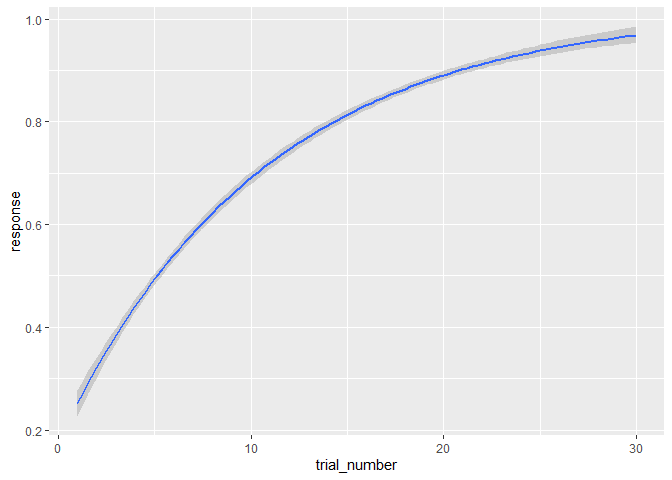
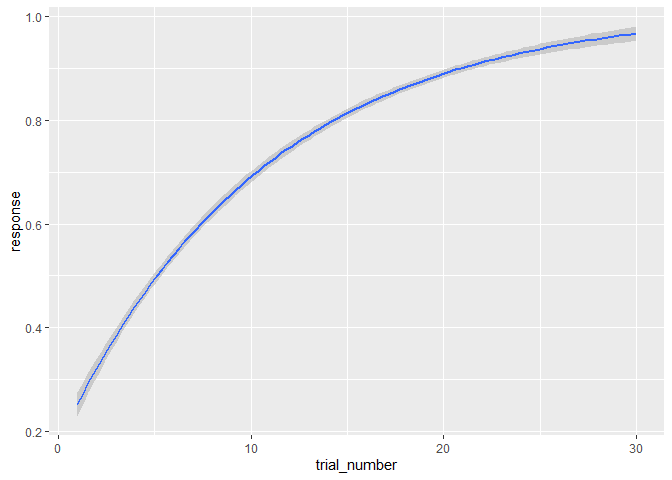
update README

diff --git a/README.md b/README.md
@@ -29,10 +29,10 @@ A basic maximum-likelihood model nonlinearly relating time to an outcome variabl
 library(TEfits)
 
 # generate artificial data:
-dat <- data.frame(response=log(2:31)/log(32),trial_number=1:30)
+dat_simple  <- data.frame(response=log(2:31)/log(32),trial_number=1:30)
 
 # fit a `TEfit` model
-mod_simple <- TEfit(dat[,c('response','trial_number')])
+mod_simple <- TEfit(dat_simple[,c('response','trial_number')])
 
 plot(mod_simple,plot_title='Time-evolving fit of artificial data')
 ```
@@ -68,85 +68,22 @@ summary(mod_simple)
 
 Alternatively, a similar model can be fit using the Bayesian package `brms`. This takes a bit longer, but provides more information about the model.
 
-`mod_TEbrm <- TEbrm(response ~ trial_number, dat)`
+`mod_TEbrm <- TEbrm(response ~ trial_number, dat_simple)`
 
-    ## 
-    ## SAMPLING FOR MODEL '24fb7a14b096f1389976e4d28e0094dc' NOW (CHAIN 1).
-    ## Chain 1: 
-    ## Chain 1: Gradient evaluation took 0 seconds
-    ## Chain 1: 1000 transitions using 10 leapfrog steps per transition would take 0 seconds.
-    ## Chain 1: Adjust your expectations accordingly!
-    ## Chain 1: 
-    ## Chain 1: 
-    ## Chain 1: Iteration:   1 / 1000 [  0%]  (Warmup)
-    ## Chain 1: Iteration: 100 / 1000 [ 10%]  (Warmup)
-    ## Chain 1: Iteration: 200 / 1000 [ 20%]  (Warmup)
-    ## Chain 1: Iteration: 300 / 1000 [ 30%]  (Warmup)
-    ## Chain 1: Iteration: 400 / 1000 [ 40%]  (Warmup)
-    ## Chain 1: Iteration: 500 / 1000 [ 50%]  (Warmup)
-    ## Chain 1: Iteration: 501 / 1000 [ 50%]  (Sampling)
-    ## Chain 1: Iteration: 600 / 1000 [ 60%]  (Sampling)
-    ## Chain 1: Iteration: 700 / 1000 [ 70%]  (Sampling)
-    ## Chain 1: Iteration: 800 / 1000 [ 80%]  (Sampling)
-    ## Chain 1: Iteration: 900 / 1000 [ 90%]  (Sampling)
-    ## Chain 1: Iteration: 1000 / 1000 [100%]  (Sampling)
-    ## Chain 1: 
-    ## Chain 1:  Elapsed Time: 0.256 seconds (Warm-up)
-    ## Chain 1:                0.212 seconds (Sampling)
-    ## Chain 1:                0.468 seconds (Total)
-    ## Chain 1: 
-    ## 
-    ## SAMPLING FOR MODEL '24fb7a14b096f1389976e4d28e0094dc' NOW (CHAIN 2).
-    ## Chain 2: 
-    ## Chain 2: Gradient evaluation took 0 seconds
-    ## Chain 2: 1000 transitions using 10 leapfrog steps per transition would take 0 seconds.
-    ## Chain 2: Adjust your expectations accordingly!
-    ## Chain 2: 
-    ## Chain 2: 
-    ## Chain 2: Iteration:   1 / 1000 [  0%]  (Warmup)
-    ## Chain 2: Iteration: 100 / 1000 [ 10%]  (Warmup)
-    ## Chain 2: Iteration: 200 / 1000 [ 20%]  (Warmup)
-    ## Chain 2: Iteration: 300 / 1000 [ 30%]  (Warmup)
-    ## Chain 2: Iteration: 400 / 1000 [ 40%]  (Warmup)
-    ## Chain 2: Iteration: 500 / 1000 [ 50%]  (Warmup)
-    ## Chain 2: Iteration: 501 / 1000 [ 50%]  (Sampling)
-    ## Chain 2: Iteration: 600 / 1000 [ 60%]  (Sampling)
-    ## Chain 2: Iteration: 700 / 1000 [ 70%]  (Sampling)
-    ## Chain 2: Iteration: 800 / 1000 [ 80%]  (Sampling)
-    ## Chain 2: Iteration: 900 / 1000 [ 90%]  (Sampling)
-    ## Chain 2: Iteration: 1000 / 1000 [100%]  (Sampling)
-    ## Chain 2: 
-    ## Chain 2:  Elapsed Time: 0.251 seconds (Warm-up)
-    ## Chain 2:                0.197 seconds (Sampling)
-    ## Chain 2:                0.448 seconds (Total)
-    ## Chain 2: 
-    ## 
-    ## SAMPLING FOR MODEL '24fb7a14b096f1389976e4d28e0094dc' NOW (CHAIN 3).
-    ## Chain 3: 
-    ## Chain 3: Gradient evaluation took 0 seconds
-    ## Chain 3: 1000 transitions using 10 leapfrog steps per transition would take 0 seconds.
-    ## Chain 3: Adjust your expectations accordingly!
-    ## Chain 3: 
-    ## Chain 3: 
-    ## Chain 3: Iteration:   1 / 1000 [  0%]  (Warmup)
-    ## Chain 3: Iteration: 100 / 1000 [ 10%]  (Warmup)
-    ## Chain 3: Iteration: 200 / 1000 [ 20%]  (Warmup)
-    ## Chain 3: Iteration: 300 / 1000 [ 30%]  (Warmup)
-    ## Chain 3: Iteration: 400 / 1000 [ 40%]  (Warmup)
-    ## Chain 3: Iteration: 500 / 1000 [ 50%]  (Warmup)
-    ## Chain 3: Iteration: 501 / 1000 [ 50%]  (Sampling)
-    ## Chain 3: Iteration: 600 / 1000 [ 60%]  (Sampling)
-    ## Chain 3: Iteration: 700 / 1000 [ 70%]  (Sampling)
-    ## Chain 3: Iteration: 800 / 1000 [ 80%]  (Sampling)
-    ## Chain 3: Iteration: 900 / 1000 [ 90%]  (Sampling)
-    ## Chain 3: Iteration: 1000 / 1000 [100%]  (Sampling)
-    ## Chain 3: 
-    ## Chain 3:  Elapsed Time: 0.255 seconds (Warm-up)
-    ## Chain 3:                0.213 seconds (Sampling)
-    ## Chain 3:                0.468 seconds (Total)
-    ## Chain 3:
+``` r
+# fit a `TEbrm` model
+mod_TEbrm <- TEbrm(response ~ trial_number, dat_simple)
+```
+
+``` r
+conditional_effects(mod_TEbrm)
+```
 
 ![](README_files/figure-markdown_github/model_simple_TEbrm_output-1.png)
+
+``` r
+summary(mod_TEbrm)
+```
 
     ##  Family: gaussian 
     ##   Links: mu = identity; sigma = identity 
@@ -160,13 +97,13 @@ Alternatively, a similar model can be fit using the Bayesian package `brms`. Thi
     ## 
     ## Population-Level Effects: 
     ##                  Estimate Est.Error l-95% CI u-95% CI Rhat Bulk_ESS Tail_ESS
-    ## pStart_Intercept     0.25      0.01     0.23     0.28 1.00      562      565
-    ## pRate_Intercept      2.88      0.09     2.72     3.06 1.00      397      345
-    ## pAsym_Intercept      1.02      0.02     0.99     1.05 1.00      448      369
+    ## pStart_Intercept     0.25      0.01     0.23     0.28 1.01      679      784
+    ## pRate_Intercept      2.87      0.08     2.72     3.01 1.01      517      697
+    ## pAsym_Intercept      1.02      0.01     0.99     1.04 1.01      593      776
     ## 
     ## Family Specific Parameters: 
     ##       Estimate Est.Error l-95% CI u-95% CI Rhat Bulk_ESS Tail_ESS
-    ## sigma     0.02      0.00     0.01     0.02 1.01      587      708
+    ## sigma     0.02      0.00     0.01     0.02 1.00      834      691
     ## 
     ## Samples were drawn using sampling(NUTS). For each parameter, Bulk_ESS
     ## and Tail_ESS are effective sample size measures, and Rhat is the potential
@@ -179,7 +116,7 @@ An example of a maximum-likelihood fit using a Bernoulli response distribution, 
 
 ``` r
 # fit a `TEfit` model
-mod_boot <- TEfit(dat[,c('response','trial_number')], 
+mod_boot <- TEfit(dat_simple[,c('response','trial_number')], 
              errFun='bernoulli',
              bootPars=tef_bootList(resamples = 40))
 plot(mod_boot,plot_title='Time-evolving fit of artificial data with 95% CI from 40 bootstrapped fits')
@@ -198,19 +135,19 @@ summary(mod_boot)
     ## 
     ## >> Fit Values:
     ##        Estimate  Q025  Q975 pseudoSE
-    ## pAsym     0.999 0.987 1.000    0.003
-    ## pRate     2.716 2.538 2.802    0.067
-    ## pStart    0.237 0.179 0.291    0.029
+    ## pAsym     0.999 0.979 1.000    0.005
+    ## pRate     2.705 2.597 2.852    0.065
+    ## pStart    0.208 0.179 0.290    0.028
     ## 
     ## >> Goodness-of-fit:
     ##                err  nullErr nPars nObs      BIC  nullBIC    deltaBIC
-    ## bernoulli 13.42573 16.83409     3   30 37.05505 37.06937 -0.01432375
+    ## bernoulli 13.42733 16.83409     3   30 37.05826 37.06937 -0.01110886
     ## 
     ## >> Test of change in nonindependence:
     ##                          rawSpearman modelConditionalSpearman
-    ## response ~ trial_number:          -1                -0.127475
+    ## response ~ trial_number:          -1                 0.192881
     ##                          proportionalSpearmanChange pValSpearmanChange
-    ## response ~ trial_number:                   0.127475                  0
+    ## response ~ trial_number:                   0.192881                  0
     ## 
     ## >> Percent of resamples predicting an increase in values: 100 
     ## 
@@ -218,10 +155,10 @@ summary(mod_boot)
     ## 
     ## >> Bootstrapped parameter correlations:
     ##         pAsym pStart pRate    err
-    ## pAsym   1.000 -0.092 0.277 -0.028
-    ## pStart -0.092  1.000 0.658  0.308
-    ## pRate   0.277  0.658 1.000  0.153
-    ## err    -0.028  0.308 0.153  1.000
+    ## pAsym   1.000 -0.193 0.225 -0.172
+    ## pStart -0.193  1.000 0.642  0.468
+    ## pRate   0.225  0.642 1.000  0.336
+    ## err    -0.172  0.468 0.336  1.000
 
 Fitting multiple models
 -----------------------
@@ -230,7 +167,7 @@ An example of fitting a given model to subsets of data (e.g., individual partici
 
 ``` r
 # generate artificial data:
-dat <- data.frame(response=rep(dat$response,4)*seq(0,.2,length=120),trial_number=rep(1:30,4),group=rep(letters[1:4],each=30))
+dat <- data.frame(response=rep(dat_simple$response,4)*seq(0,.2,length=120),trial_number=rep(1:30,4),group=rep(letters[1:4],each=30))
 
 # fit a `TEfitAll` model
 mod_4group <- TEfitAll(dat[,c('response','trial_number')], 
@@ -260,8 +197,8 @@ summary(mod_4group)
     ## 
     ## >> Overall effects:
     ##             pAsym     pStart      pRate
-    ## mean   0.14922721 0.01639028 3.83366521
-    ## stdErr 0.03933404 0.01060450 0.02431579
+    ## mean   0.14922721 0.01639030 3.83366541
+    ## stdErr 0.03933404 0.01060451 0.02431559
     ## 
     ##                 err    nullErr nPars nObs      Fval         Pval   Rsquared
     ## mean   3.005041e-04 0.03071614     3   30 1692.5939 1.110223e-16 0.97598962
@@ -287,126 +224,18 @@ An analogous model, this time fitting "participant-level" models as random effec
 
 `mod_4group_TEbrm <- TEbrm(response ~` `tef_change_expo3('trial_number',parForm = ~ (1|group))` `,dataIn = dat)`
 
-    ## 
-    ## SAMPLING FOR MODEL 'ec7a53ce60e88c9f52bc73902e26264a' NOW (CHAIN 1).
-    ## Chain 1: 
-    ## Chain 1: Gradient evaluation took 0 seconds
-    ## Chain 1: 1000 transitions using 10 leapfrog steps per transition would take 0 seconds.
-    ## Chain 1: Adjust your expectations accordingly!
-    ## Chain 1: 
-    ## Chain 1: 
-    ## Chain 1: Iteration:   1 / 1000 [  0%]  (Warmup)
-    ## Chain 1: Iteration: 100 / 1000 [ 10%]  (Warmup)
-    ## Chain 1: Iteration: 200 / 1000 [ 20%]  (Warmup)
-    ## Chain 1: Iteration: 300 / 1000 [ 30%]  (Warmup)
-    ## Chain 1: Iteration: 400 / 1000 [ 40%]  (Warmup)
-    ## Chain 1: Iteration: 500 / 1000 [ 50%]  (Warmup)
-    ## Chain 1: Iteration: 501 / 1000 [ 50%]  (Sampling)
-    ## Chain 1: Iteration: 600 / 1000 [ 60%]  (Sampling)
-    ## Chain 1: Iteration: 700 / 1000 [ 70%]  (Sampling)
-    ## Chain 1: Iteration: 800 / 1000 [ 80%]  (Sampling)
-    ## Chain 1: Iteration: 900 / 1000 [ 90%]  (Sampling)
-    ## Chain 1: Iteration: 1000 / 1000 [100%]  (Sampling)
-    ## Chain 1: 
-    ## Chain 1:  Elapsed Time: 34.169 seconds (Warm-up)
-    ## Chain 1:                41.87 seconds (Sampling)
-    ## Chain 1:                76.039 seconds (Total)
-    ## Chain 1: 
-    ## 
-    ## SAMPLING FOR MODEL 'ec7a53ce60e88c9f52bc73902e26264a' NOW (CHAIN 2).
-    ## Chain 2: 
-    ## Chain 2: Gradient evaluation took 0.001 seconds
-    ## Chain 2: 1000 transitions using 10 leapfrog steps per transition would take 10 seconds.
-    ## Chain 2: Adjust your expectations accordingly!
-    ## Chain 2: 
-    ## Chain 2: 
-    ## Chain 2: Iteration:   1 / 1000 [  0%]  (Warmup)
-    ## Chain 2: Iteration: 100 / 1000 [ 10%]  (Warmup)
-    ## Chain 2: Iteration: 200 / 1000 [ 20%]  (Warmup)
-    ## Chain 2: Iteration: 300 / 1000 [ 30%]  (Warmup)
-    ## Chain 2: Iteration: 400 / 1000 [ 40%]  (Warmup)
-    ## Chain 2: Iteration: 500 / 1000 [ 50%]  (Warmup)
-    ## Chain 2: Iteration: 501 / 1000 [ 50%]  (Sampling)
-    ## Chain 2: Iteration: 600 / 1000 [ 60%]  (Sampling)
-    ## Chain 2: Iteration: 700 / 1000 [ 70%]  (Sampling)
-    ## Chain 2: Iteration: 800 / 1000 [ 80%]  (Sampling)
-    ## Chain 2: Iteration: 900 / 1000 [ 90%]  (Sampling)
-    ## Chain 2: Iteration: 1000 / 1000 [100%]  (Sampling)
-    ## Chain 2: 
-    ## Chain 2:  Elapsed Time: 34.695 seconds (Warm-up)
-    ## Chain 2:                42.055 seconds (Sampling)
-    ## Chain 2:                76.75 seconds (Total)
-    ## Chain 2: 
-    ## 
-    ## SAMPLING FOR MODEL 'ec7a53ce60e88c9f52bc73902e26264a' NOW (CHAIN 3).
-    ## Chain 3: 
-    ## Chain 3: Gradient evaluation took 0.001 seconds
-    ## Chain 3: 1000 transitions using 10 leapfrog steps per transition would take 10 seconds.
-    ## Chain 3: Adjust your expectations accordingly!
-    ## Chain 3: 
-    ## Chain 3: 
-    ## Chain 3: Iteration:   1 / 1000 [  0%]  (Warmup)
-    ## Chain 3: Iteration: 100 / 1000 [ 10%]  (Warmup)
-    ## Chain 3: Iteration: 200 / 1000 [ 20%]  (Warmup)
-    ## Chain 3: Iteration: 300 / 1000 [ 30%]  (Warmup)
-    ## Chain 3: Iteration: 400 / 1000 [ 40%]  (Warmup)
-    ## Chain 3: Iteration: 500 / 1000 [ 50%]  (Warmup)
-    ## Chain 3: Iteration: 501 / 1000 [ 50%]  (Sampling)
-    ## Chain 3: Iteration: 600 / 1000 [ 60%]  (Sampling)
-    ## Chain 3: Iteration: 700 / 1000 [ 70%]  (Sampling)
-    ## Chain 3: Iteration: 800 / 1000 [ 80%]  (Sampling)
-    ## Chain 3: Iteration: 900 / 1000 [ 90%]  (Sampling)
-    ## Chain 3: Iteration: 1000 / 1000 [100%]  (Sampling)
-    ## Chain 3: 
-    ## Chain 3:  Elapsed Time: 33.687 seconds (Warm-up)
-    ## Chain 3:                40.23 seconds (Sampling)
-    ## Chain 3:                73.917 seconds (Total)
-    ## Chain 3:
-
 ``` r
-conditional_effects(mod_4group_TEbrm)
+# mod_4group_TEbrm <- TEbrm(response ~ 
+#                             tef_change_expo3('trial_number',parForm = ~ (1|group))
+#                           ,dataIn = dat
+# )
 ```
 
-![](README_files/figure-markdown_github/model_groups_TEbrm_output-1.png)
-
 ``` r
-summary(mod_4group_TEbrm)
+# conditional_effects(mod_4group_TEbrm)
+# 
+# summary(mod_4group_TEbrm)
 ```
-
-    ##  Family: gaussian 
-    ##   Links: mu = identity; sigma = identity 
-    ## Formula: response ~ pAsym + ((pStart) - (pAsym)) * 2^((1 - trial_number)/(2^(pRate))) 
-    ##          pStart ~ (1 | group)
-    ##          pRate ~ (1 | group)
-    ##          pAsym ~ (1 | group)
-    ##    Data: attr(rhs_form, "data") (Number of observations: 120) 
-    ## Samples: 3 chains, each with iter = 1000; warmup = 500; thin = 1;
-    ##          total post-warmup samples = 1500
-    ## 
-    ## Group-Level Effects: 
-    ## ~group (Number of levels: 4) 
-    ##                      Estimate Est.Error l-95% CI u-95% CI Rhat Bulk_ESS
-    ## sd(pStart_Intercept)     0.04      0.03     0.01     0.12 1.00      471
-    ## sd(pRate_Intercept)      1.71      0.80     0.73     3.69 1.00      508
-    ## sd(pAsym_Intercept)      0.07      0.08     0.01     0.31 1.00      529
-    ##                      Tail_ESS
-    ## sd(pStart_Intercept)      733
-    ## sd(pRate_Intercept)       549
-    ## sd(pAsym_Intercept)       560
-    ## 
-    ## Population-Level Effects: 
-    ##                  Estimate Est.Error l-95% CI u-95% CI Rhat Bulk_ESS Tail_ESS
-    ## pStart_Intercept     0.02      0.02    -0.01     0.07 1.01      440      554
-    ## pRate_Intercept      4.63      0.66     3.16     5.72 1.00      403      399
-    ## pAsym_Intercept      0.22      0.04     0.12     0.30 1.00      618      360
-    ## 
-    ## Family Specific Parameters: 
-    ##       Estimate Est.Error l-95% CI u-95% CI Rhat Bulk_ESS Tail_ESS
-    ## sigma     0.00      0.00     0.00     0.00 1.00     1366      926
-    ## 
-    ## Samples were drawn using sampling(NUTS). For each parameter, Bulk_ESS
-    ## and Tail_ESS are effective sample size measures, and Rhat is the potential
-    ## scale reduction factor on split chains (at convergence, Rhat = 1).
 
 Using a more common linear regression framework
 -----------------------------------------------
@@ -415,11 +244,11 @@ In some cases (such as `mod_simple` above), similar performance can be attained 
 
 ``` r
 # Fit a `lm` model, first computing the best nonlinear transformation for time:
-mod_lm <- TElm(response~trial_number,dat,timeVar = 'trial_number')
+mod_lm <- TElm(response~trial_number,dat_simple,timeVar = 'trial_number')
 
 plot(mod_simple)
 
-lines(dat$trial_number,fitted(mod_lm),col='green',lty=2,lwd=2)
+lines(dat_simple$trial_number,fitted(mod_lm),col='green',lty=2,lwd=2)
 ```
 
 ![](README_files/figure-markdown_github/TElm-1.png)
@@ -428,7 +257,7 @@ TElm parameter estimates:
 
 |  X.Intercept.|  trial\_number|   rate|
 |-------------:|--------------:|------:|
-|          0.13|         -0.118|  3.355|
+|          1.02|         -0.767|  2.887|
 
 TEfit parameter estimates:
 
